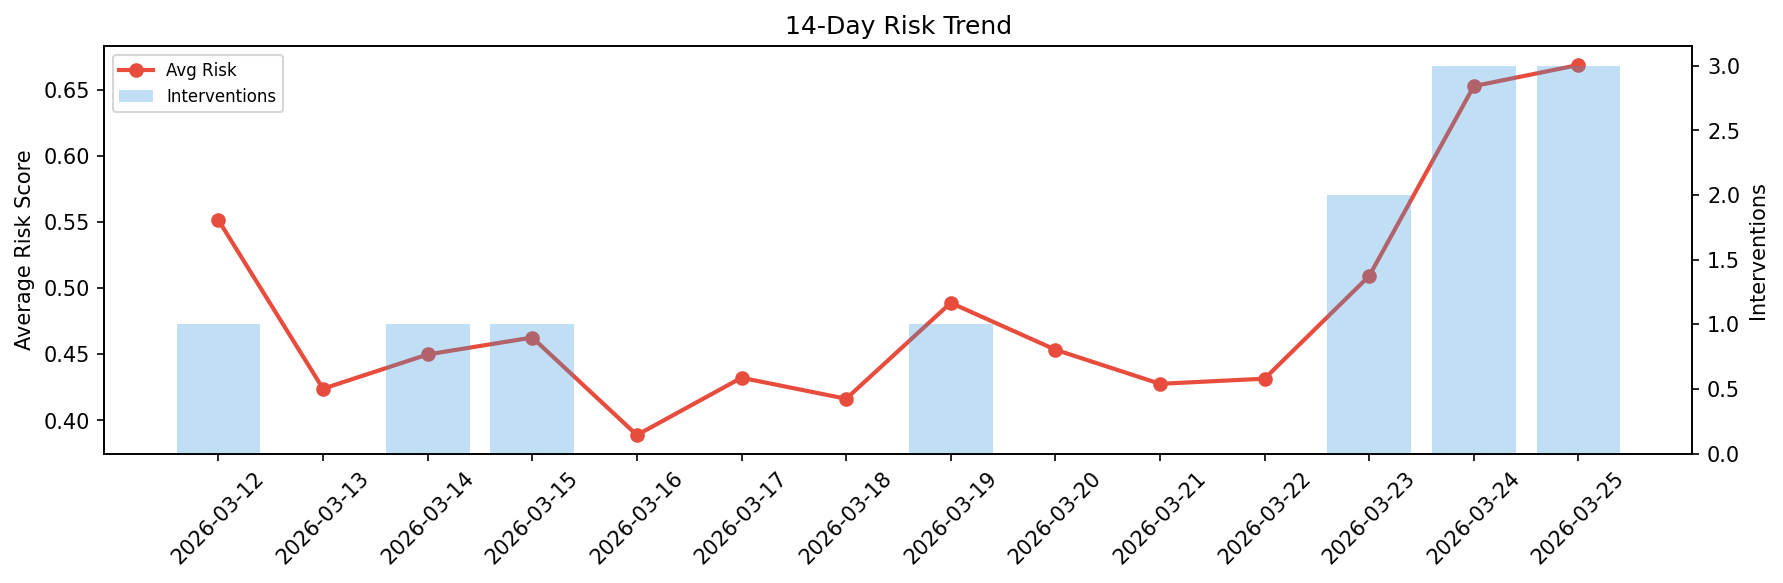
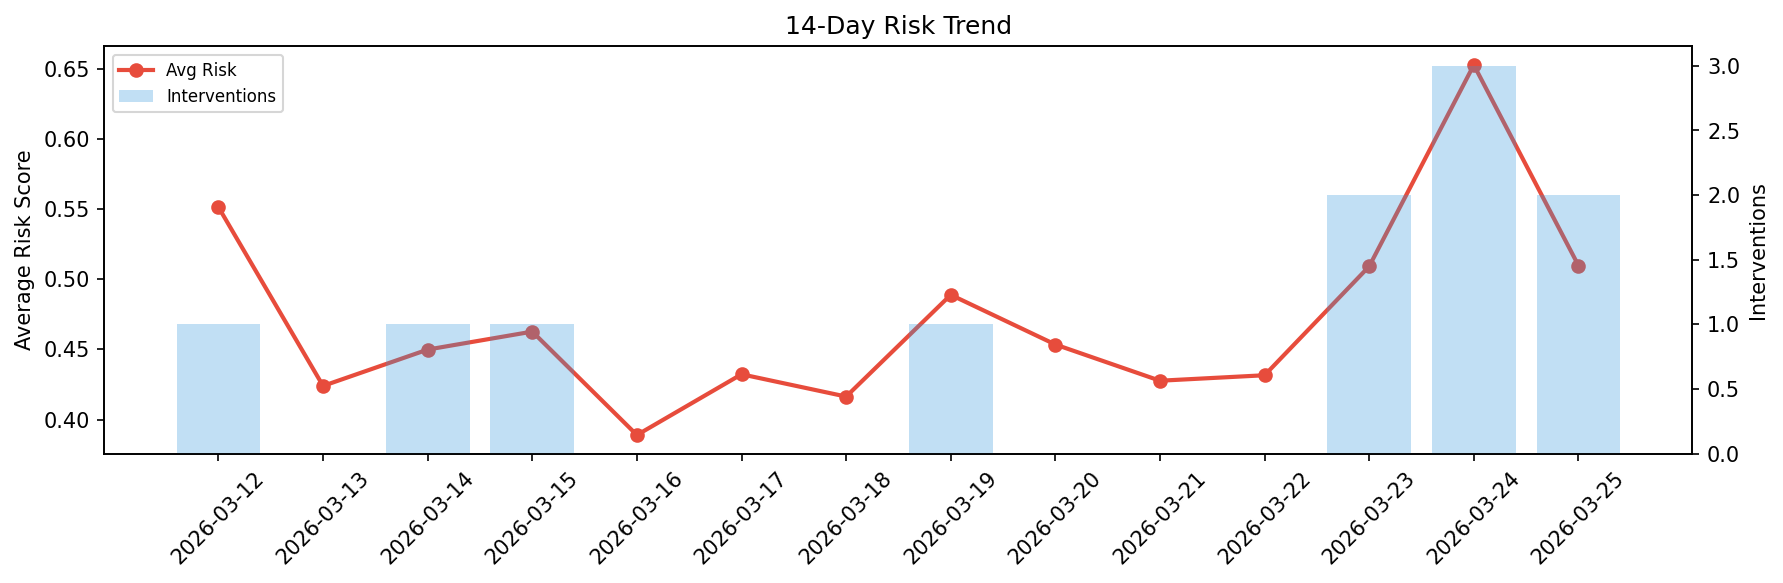
agent-improvement: daily cycle 2026-03-25T15:36

diff --git a/logs/2026-03-25.md b/logs/2026-03-25.md
@@ -1,6 +1,6 @@
 # Agent Improvement Report — 2026-03-25
 
-**Cycle ID:** `9cd1dc6f` | **Avg Risk:** 0.6687 | **Interventions:** 3/4
+**Cycle ID:** `1c728fd3` | **Avg Risk:** 0.5098 | **Interventions:** 2/4
 
 ![Dashboard](2026-03-25_dashboard.png)
 
@@ -10,18 +10,18 @@
 
 | Domain | Risk Score | Decision | Alerts |
 |--------|-----------|----------|--------|
-| code_review | 0.8233 | intervene | duplication, coverage |
-| incident_response | 0.5756 | monitor | blast_radius |
-| data_pipeline | 0.6325 | intervene | schema_drift |
-| deployment | 0.6435 | intervene | latency_p99 |
+| code_review | 0.2292 | monitor | none |
+| incident_response | 0.6602 | intervene | blast_radius, mttr |
+| data_pipeline | 0.6168 | intervene | volume_anomaly |
+| deployment | 0.5328 | monitor | canary_error |
 
 ## Delta vs Yesterday
 
 | Domain | Today | Yesterday | Change |
 |--------|-------|-----------|--------|
-| code_review | 0.8233 | 0.5177 | 📈 59.0% |
-| incident_response | 0.5756 | 0.8179 | 📉 -29.6% |
-| data_pipeline | 0.6325 | 0.6461 | 📉 -2.1% |
-| deployment | 0.6435 | 0.6291 | 📈 2.3% |
+| code_review | 0.2292 | 0.5177 | 📉 -55.7% |
+| incident_response | 0.6602 | 0.8179 | 📉 -19.3% |
+| data_pipeline | 0.6168 | 0.6461 | 📉 -4.5% |
+| deployment | 0.5328 | 0.6291 | 📉 -15.3% |
 
-**Refinement:** `{'adjustment': 'maintain', 'trend': 'improving', 'window': 4}`
+**Refinement:** `{'adjustment': 'tighten_thresholds', 'trend': 'degrading', 'window': 4}`
